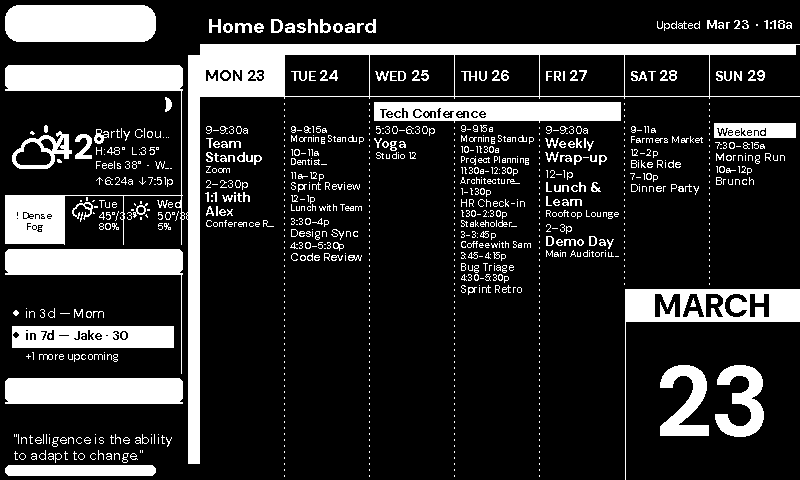
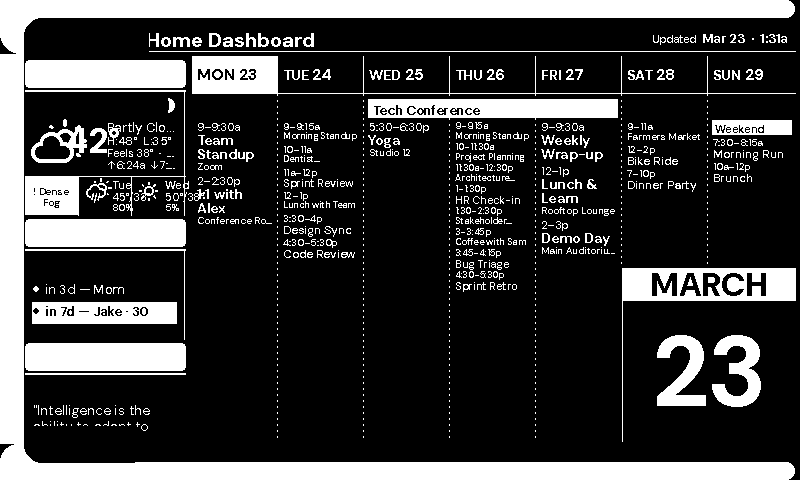
Redesign LCARS theme with proper elbow sweeps and bold structural chrome
Major visual overhaul:
- Thick 24px vertical spine bar on the left (was 12px on the wrong side)
- 18px horizontal bars at top and bottom with rounded right ends
- Proper LCARS elbow sweeps: curved inner corners where bars meet caps,
  created by carving rounded rectangles from the cap interior
- Top and bottom caps (130px wide) with rounded outer corners
- Bold 28px section pills with 11pt labels (was 24px / 9pt)
- Larger font size for pill label text

Layout changes:
- Spine at x=0..23 (left side, not x=188..199)
- Sidebar content at x=25..185 (right of spine)
- Header in the elbow gap (x=138, y=20) between bar and cap edge
- Bottom elbow mirrors top for a complete LCARS frame

https://claude.ai/code/session_01BZMAiwFcv1Lxxvk4gHwoFB

Changed region(s): [[0.0, 0.0, 1.0, 1.0], [0.75, 0.5312, 1.0, 0.9062]]

diff --git a/src/render/themes/lcars.py b/src/render/themes/lcars.py
@@ -1,12 +1,13 @@
 """LCARS theme — Star Trek computer interface aesthetic for the eInk dashboard.
 
-Layout: left sidebar (200px) with stacked panels (weather, crew manifest, info)
-separated by LCARS-style rounded pill labels.  The main 600px area holds the week
-view.  A characteristic elbow cap in the top-left, a crossbar spanning the header
-bottom, and a vertical connecting bar form the iconic LCARS chrome.
+Layout: a thick vertical bar ("spine") on the left connects to a horizontal bar
+at the top via a characteristic curved elbow sweep.  Section label pills jut out
+to the right from the spine, separating stacked sidebar panels (weather, crew
+manifest, info).  The week view occupies the main 600px area to the right.
+Top and bottom elbows frame the display with rounded caps.
 
 Visual style:
-- Black canvas, white structural elements (pills, connecting bars, elbow cap).
+- Black canvas, white structural chrome (bars, caps, pills, elbow sweeps).
 - DM Sans for all text — clean, geometric, screen-optimised.
 - White body/event text; black-on-white text on pill labels.
 - Inverted today column (white fill + black text).
@@ -31,40 +32,56 @@ if TYPE_CHECKING:
 _CANVAS_W = 800
 _CANVAS_H = 480
 
-# Header
-_HEADER_H = 55          # total header height
-_HDR_BAR_H = 10         # thickness of bottom crossbar
-_ELBOW_CAP_W = 155      # right edge of left header cap pill (x: 5 → 155)
-_ELBOW_RADIUS = 14      # corner radius for the header cap pill
+# Structural bar thicknesses
+_HBAR_H = 18          # top / bottom horizontal bars
+_VBAR_W = 24          # left vertical bar ("spine")
 
-# Sidebar / vertical connecting bar
-_SIDEBAR_W = 200        # total sidebar width (content + bar)
-_VBAR_X = 188           # left edge of vertical connecting bar
-_VBAR_W = 12            # bar width; right edge x=199, main area starts x=200
+# Elbow caps (rounded end pieces at top-left and bottom-left)
+_CAP_W = 130          # cap extends this far to the right
+_TOP_CAP_H = 54       # total height of top cap area (includes hbar)
+_BOT_CAP_H = 36       # total height of bottom cap area (includes hbar)
+_OUTER_R = 20         # outer corner radius for caps
+_INNER_R = 18         # inner sweep corner radius (the LCARS curve)
 
-# Sidebar section label pills (x: 5 → 182, width=177)
-_PILL_X = 5
-_PILL_RIGHT = 182
-_PILL_H = 24
-_PILL_RADIUS = 5
+_BOT_ELBOW_Y = _CANVAS_H - _BOT_CAP_H   # 444
 
-# Section y-positions within the body (body starts at y=_HEADER_H=55)
-# Layout arithmetic: 10 + 24 + 155 + 5 + 24 + 100 + 5 + 24 + 68 + 10 = 425 = 480-55 ✓
-_WEATHER_PILL_Y = 65        # pill: y=65..88
-_WEATHER_CONT_Y = 89        # content: y=89..243  (h=155)
-_WEATHER_CONT_H = 155
+# Section label pills (jut right from the spine)
+_PILL_X = _VBAR_W + 1    # 25 — flush with spine right edge
+_PILL_RIGHT = 185         # right edge of pills
+_PILL_H = 28              # pill height
+_PILL_R = 4               # pill corner radius
 
-_BIRTHDAY_PILL_Y = 249      # gap 5px; pill: y=249..272
-_BIRTHDAY_CONT_Y = 273      # content: y=273..372 (h=100)
-_BIRTHDAY_CONT_H = 100
+# Main content area (right of sidebar)
+_MAIN_X = 192             # week view left edge
+_MAIN_W = _CANVAS_W - _MAIN_X - 4   # 604
 
-_INFO_PILL_Y = 378          # gap 5px; pill: y=378..401
-_INFO_CONT_Y = 402          # content: y=402..469 (h=68); 10px bottom margin to 480
-_INFO_CONT_H = 68
+# Header text area (in the gap between top bar and cap bottom, right of cap)
+_HEADER_X = _CAP_W + 8    # 138
+_HEADER_Y = _HBAR_H + 2   # 20
+_HEADER_W = _CANVAS_W - _HEADER_X - 4   # 658
+_HEADER_H = _TOP_CAP_H - _HBAR_H - 4    # 32
 
-# Main area (right of sidebar)
-_MAIN_X = _SIDEBAR_W        # 200
-_MAIN_W = _CANVAS_W - _MAIN_X  # 600
+# Body area (between top and bottom elbows)
+_BODY_Y = _TOP_CAP_H + 2      # 56
+_BODY_BOTTOM = _BOT_ELBOW_Y - 2   # 442
+# Available height: 442 - 56 = 386
+# Fixed overhead: top_margin(4) + 3×pill(28) + 3×gap_after_pill(2)
+#                 + 2×gap_between_sections(4) + bottom_margin(4) = 106
+# Content: 386 - 106 = 280
+
+_PILL_1_Y = _BODY_Y + 4       # 60
+_CONT_1_Y = _PILL_1_Y + _PILL_H + 2   # 90
+_CONT_1_H = 125               # ends at 215
+
+_PILL_2_Y = _CONT_1_Y + _CONT_1_H + 4   # 219
+_CONT_2_Y = _PILL_2_Y + _PILL_H + 2       # 249
+_CONT_2_H = 90                # ends at 339
+
+_PILL_3_Y = _CONT_2_Y + _CONT_2_H + 4   # 343
+_CONT_3_Y = _PILL_3_Y + _PILL_H + 2       # 373
+_CONT_3_H = 65                # ends at 438; bottom margin = 442 - 438 = 4 ✓
+
+# Verification: 125 + 90 + 65 = 280 ✓
 
 # Default pill label text (overridable via style.component_labels)
 _DEFAULT_LABELS: dict[str, str] = {
@@ -89,47 +106,75 @@ def _draw_lcars_overlay(
     fg = style.fg   # WHITE (1)
     bg = style.bg   # BLACK (0)
 
-    # ------------------------------------------------------------------
-    # 1. Header left elbow cap pill
-    # ------------------------------------------------------------------
-    # Clear the cap area first (component content should not reach here, but
-    # resetting ensures the black gap between cap and crossbar is always clean).
-    draw.rectangle([0, 0, _ELBOW_CAP_W + 5, _HEADER_H - _HDR_BAR_H - 1], fill=bg)
+    # ==================================================================
+    # TOP ELBOW — horizontal bar + cap + inner sweep
+    # ==================================================================
+
+    # Horizontal bar across the full width (rounded right end)
     draw.rounded_rectangle(
-        [5, 5, _ELBOW_CAP_W, _HEADER_H - _HDR_BAR_H - 4],
-        radius=_ELBOW_RADIUS,
-        fill=fg,
+        [0, 0, W - 6, _HBAR_H - 1], radius=_HBAR_H // 2, fill=fg,
     )
+    # Square off the left end (it merges into the cap)
+    draw.rectangle([0, 0, _HBAR_H, _HBAR_H - 1], fill=fg)
 
-    # ------------------------------------------------------------------
-    # 2. Header crossbar (thin bar at the bottom of the header strip)
-    # ------------------------------------------------------------------
+    # Cap: large rounded rectangle extending below the bar on the left
+    draw.rounded_rectangle(
+        [0, 0, _CAP_W, _TOP_CAP_H - 1], radius=_OUTER_R, fill=fg,
+    )
+    # Square off the cap's right side (only the left corners should be rounded)
     draw.rectangle(
-        [_MAIN_X, _HEADER_H - _HDR_BAR_H, W - 5, _HEADER_H - 1],
-        fill=fg,
+        [_CAP_W - _OUTER_R, 0, _CAP_W, _TOP_CAP_H - 1], fill=fg,
     )
 
-    # ------------------------------------------------------------------
-    # 3. Vertical sidebar connecting bar
-    # ------------------------------------------------------------------
+    # Inner sweep: carve out the interior of the elbow to create the
+    # characteristic LCARS curve.  The rounded_rectangle extends past the cap
+    # edges so that only the top-left corner (the sweep) is visible.
+    draw.rounded_rectangle(
+        [_VBAR_W, _HBAR_H,
+         _CAP_W + _INNER_R, _TOP_CAP_H + _INNER_R],
+        radius=_INNER_R, fill=bg,
+    )
+
+    # ==================================================================
+    # BOTTOM ELBOW — mirror of the top
+    # ==================================================================
+
+    # Horizontal bar across the full width (rounded right end)
+    draw.rounded_rectangle(
+        [0, H - _HBAR_H, W - 6, H - 1], radius=_HBAR_H // 2, fill=fg,
+    )
+    draw.rectangle([0, H - _HBAR_H, _HBAR_H, H - 1], fill=fg)
+
+    # Cap: rounded rectangle extending above the bar on the left
+    draw.rounded_rectangle(
+        [0, _BOT_ELBOW_Y, _CAP_W, H - 1], radius=_OUTER_R, fill=fg,
+    )
     draw.rectangle(
-        [_VBAR_X, _HEADER_H, _VBAR_X + _VBAR_W - 1, H - 17],
-        fill=fg,
+        [_CAP_W - _OUTER_R, _BOT_ELBOW_Y, _CAP_W, H - 1], fill=fg,
     )
 
-    # ------------------------------------------------------------------
-    # 4. Bottom sidebar cap pill
-    # ------------------------------------------------------------------
-    draw.rounded_rectangle([5, H - 15, _ELBOW_CAP_W, H - 5], radius=6, fill=fg)
+    # Inner sweep for bottom elbow (bottom-left corner is the sweep)
+    draw.rounded_rectangle(
+        [_VBAR_W, _BOT_ELBOW_Y - _INNER_R,
+         _CAP_W + _INNER_R, H - _HBAR_H],
+        radius=_INNER_R, fill=bg,
+    )
 
-    # ------------------------------------------------------------------
-    # 5. Section label pills: white pill + black centred label text
-    # ------------------------------------------------------------------
-    label_font = style.font_bold(9)
+    # ==================================================================
+    # LEFT VERTICAL BAR (spine connecting the two elbows)
+    # ==================================================================
+    draw.rectangle(
+        [0, _TOP_CAP_H, _VBAR_W - 1, _BOT_ELBOW_Y - 1], fill=fg,
+    )
+
+    # ==================================================================
+    # SECTION LABEL PILLS (jut right from the spine, with label text)
+    # ==================================================================
+    label_font = style.font_bold(11)
     pill_specs = [
-        (_WEATHER_PILL_Y, "weather"),
-        (_BIRTHDAY_PILL_Y, "birthdays"),
-        (_INFO_PILL_Y, "info"),
+        (_PILL_1_Y, "weather"),
+        (_PILL_2_Y, "birthdays"),
+        (_PILL_3_Y, "info"),
     ]
     for pill_y, key in pill_specs:
         label = style.component_labels.get(key) or _DEFAULT_LABELS[key]
@@ -138,8 +183,7 @@ def _draw_lcars_overlay(
         # White pill background
         draw.rounded_rectangle(
             [_PILL_X, pill_y, _PILL_RIGHT, pill_bottom],
-            radius=_PILL_RADIUS,
-            fill=fg,
+            radius=_PILL_R, fill=fg,
         )
 
         # Black label text, centred on the pill
@@ -161,19 +205,21 @@ def lcars_theme() -> Theme:
     layout = ThemeLayout(
         canvas_w=_CANVAS_W,
         canvas_h=_CANVAS_H,
-        # Header title area sits to the right of the left elbow cap
-        header=ComponentRegion(_MAIN_X, 0, _MAIN_W, _HEADER_H - _HDR_BAR_H),
-        # Week view occupies the full right area below the header
-        week_view=ComponentRegion(_MAIN_X, _HEADER_H, _MAIN_W, _CANVAS_H - _HEADER_H),
-        # Sidebar panels: positioned below their respective LCARS pill labels
+        # Header text area: right of cap, below top bar
+        header=ComponentRegion(_HEADER_X, _HEADER_Y, _HEADER_W, _HEADER_H),
+        # Week view: main content area right of sidebar
+        week_view=ComponentRegion(
+            _MAIN_X, _BODY_Y, _MAIN_W, _BODY_BOTTOM - _BODY_Y,
+        ),
+        # Sidebar panels: below their respective LCARS pill labels
         weather=ComponentRegion(
-            _PILL_X, _WEATHER_CONT_Y, _PILL_RIGHT - _PILL_X, _WEATHER_CONT_H,
+            _PILL_X, _CONT_1_Y, _PILL_RIGHT - _PILL_X, _CONT_1_H,
         ),
         birthdays=ComponentRegion(
-            _PILL_X, _BIRTHDAY_CONT_Y, _PILL_RIGHT - _PILL_X, _BIRTHDAY_CONT_H,
+            _PILL_X, _CONT_2_Y, _PILL_RIGHT - _PILL_X, _CONT_2_H,
         ),
         info=ComponentRegion(
-            _PILL_X, _INFO_CONT_Y, _PILL_RIGHT - _PILL_X, _INFO_CONT_H,
+            _PILL_X, _CONT_3_Y, _PILL_RIGHT - _PILL_X, _CONT_3_H,
         ),
         today_view=ComponentRegion(0, 0, 0, 0, visible=False),
         draw_order=["header", "weather", "birthdays", "info", "week_view"],
@@ -183,10 +229,10 @@ def lcars_theme() -> Theme:
     style = ThemeStyle(
         fg=1,                           # WHITE on black canvas
         bg=0,                           # BLACK background
-        invert_header=False,            # header: white text on black (not a white bar)
+        invert_header=False,            # header: white text on black
         invert_today_col=True,          # today column: white fill + black text
         invert_allday_bars=True,        # all-day event bars: solid white
-        spacing_scale=0.9,              # slightly compact for narrow sidebar panels
+        spacing_scale=0.9,              # slightly compact for narrow sidebar
         label_font_size=8,
         label_font_weight="bold",
         # DM Sans — geometric, screen-optimised (same family as minimalist theme)
@@ -198,8 +244,8 @@ def lcars_theme() -> Theme:
         font_date_number=dm_bold,
         font_month_title=dm_bold,
         font_section_label=dm_bold,
-        # Suppress the components' built-in section labels; the overlay pills serve
-        # as the sole section identifiers.
+        # Suppress the components' built-in section labels; the overlay pills
+        # serve as the sole section identifiers.
         component_labels={"weather": " ", "birthdays": " ", "info": " "},
     )
 

diff --git a/tests/test_themes.py b/tests/test_themes.py
@@ -566,21 +566,26 @@ class TestLcarsTheme:
         assert t.layout.info.x < t.layout.week_view.x
         assert t.layout.week_view.w > t.layout.weather.w
 
-    def test_lcars_week_view_starts_at_sidebar_edge(self):
-        """Week view x-position matches the sidebar width."""
+    def test_lcars_week_view_starts_past_sidebar(self):
+        """Week view x-position is past the sidebar pill right edge."""
         t = load_theme("lcars")
-        assert t.layout.week_view.x == 200
+        assert t.layout.week_view.x == 192
 
-    def test_lcars_sidebar_panels_do_not_overlap_vbar(self):
-        """Sidebar component regions must not extend past x=182 (vertical bar at x=188)."""
+    def test_lcars_sidebar_panels_within_pill_bounds(self):
+        """Sidebar component regions must not extend past the pill right edge."""
         t = load_theme("lcars")
         for region in (t.layout.weather, t.layout.birthdays, t.layout.info):
-            assert region.x + region.w <= 182
+            assert region.x + region.w <= 185
 
-    def test_lcars_panels_cover_body_height(self):
-        """Weather + birthday + info content heights fit within the 425px body."""
+    def test_lcars_sidebar_panels_right_of_spine(self):
+        """Sidebar component regions start to the right of the 24px spine bar."""
         t = load_theme("lcars")
-        body_h = t.layout.canvas_h - t.layout.week_view.y  # 480 - 55 = 425
+        for region in (t.layout.weather, t.layout.birthdays, t.layout.info):
+            assert region.x >= 24
+
+    def test_lcars_panels_fit_within_canvas(self):
+        """All sidebar content fits within the canvas height."""
+        t = load_theme("lcars")
         panels_bottom = max(
             t.layout.weather.y + t.layout.weather.h,
             t.layout.birthdays.y + t.layout.birthdays.h,
